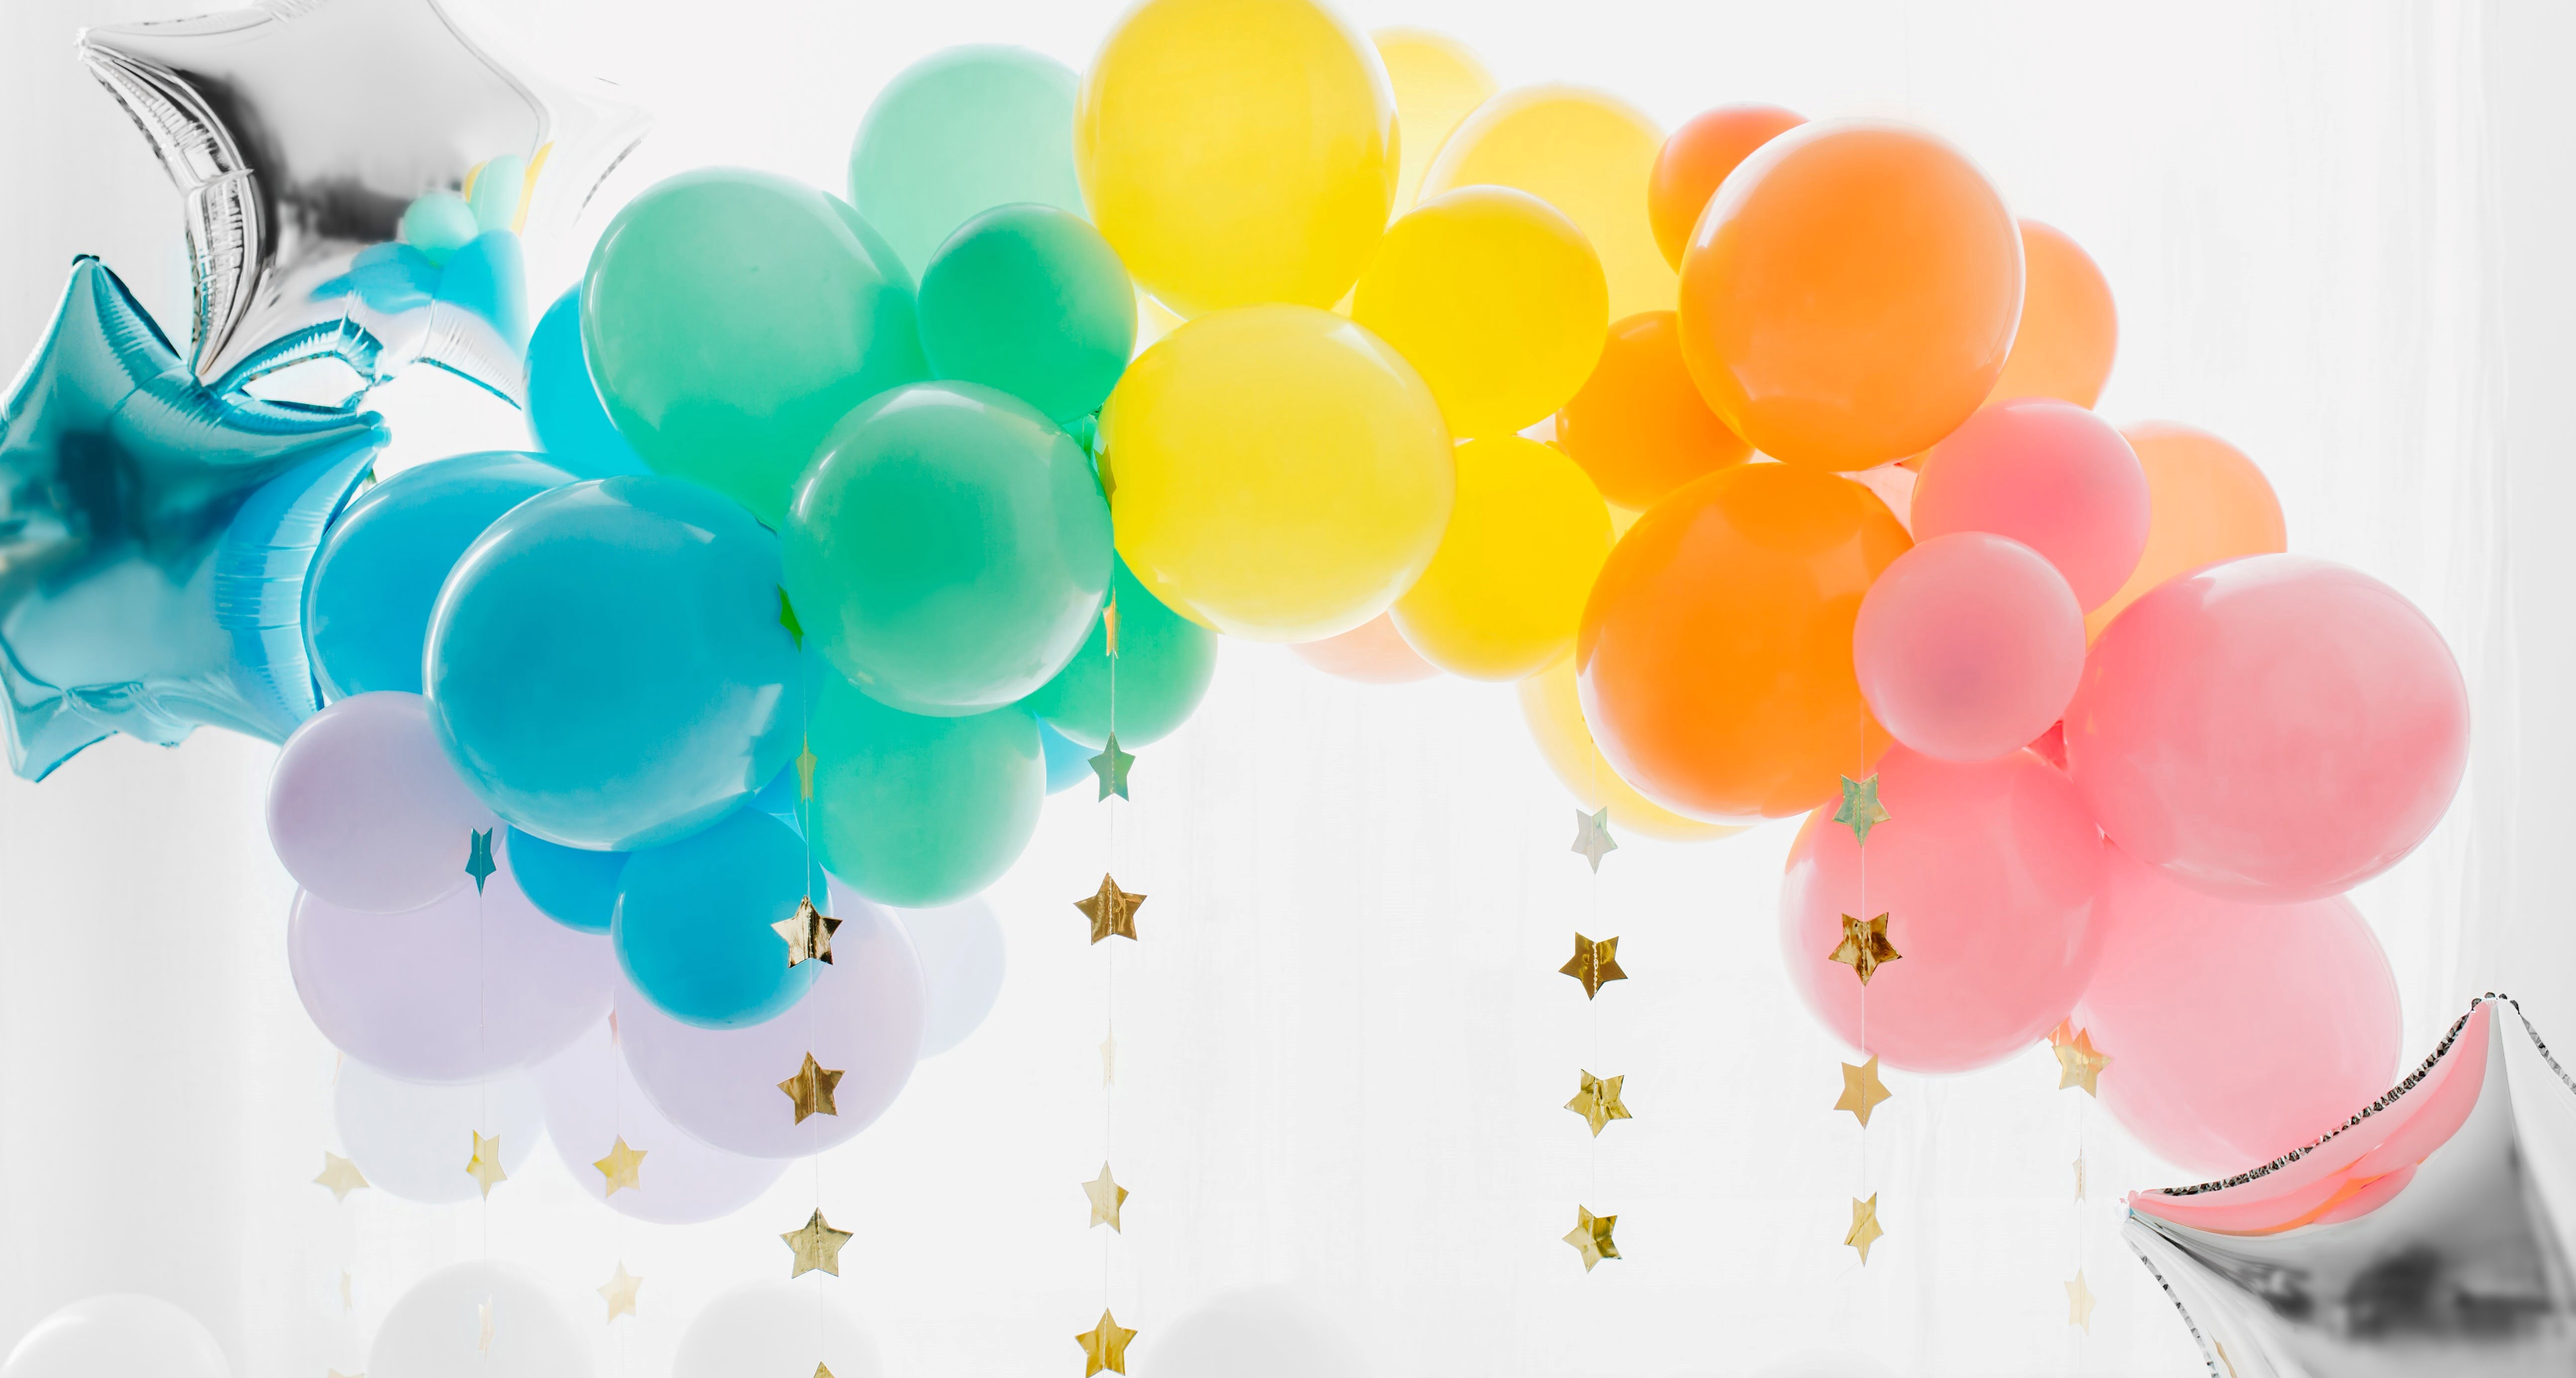
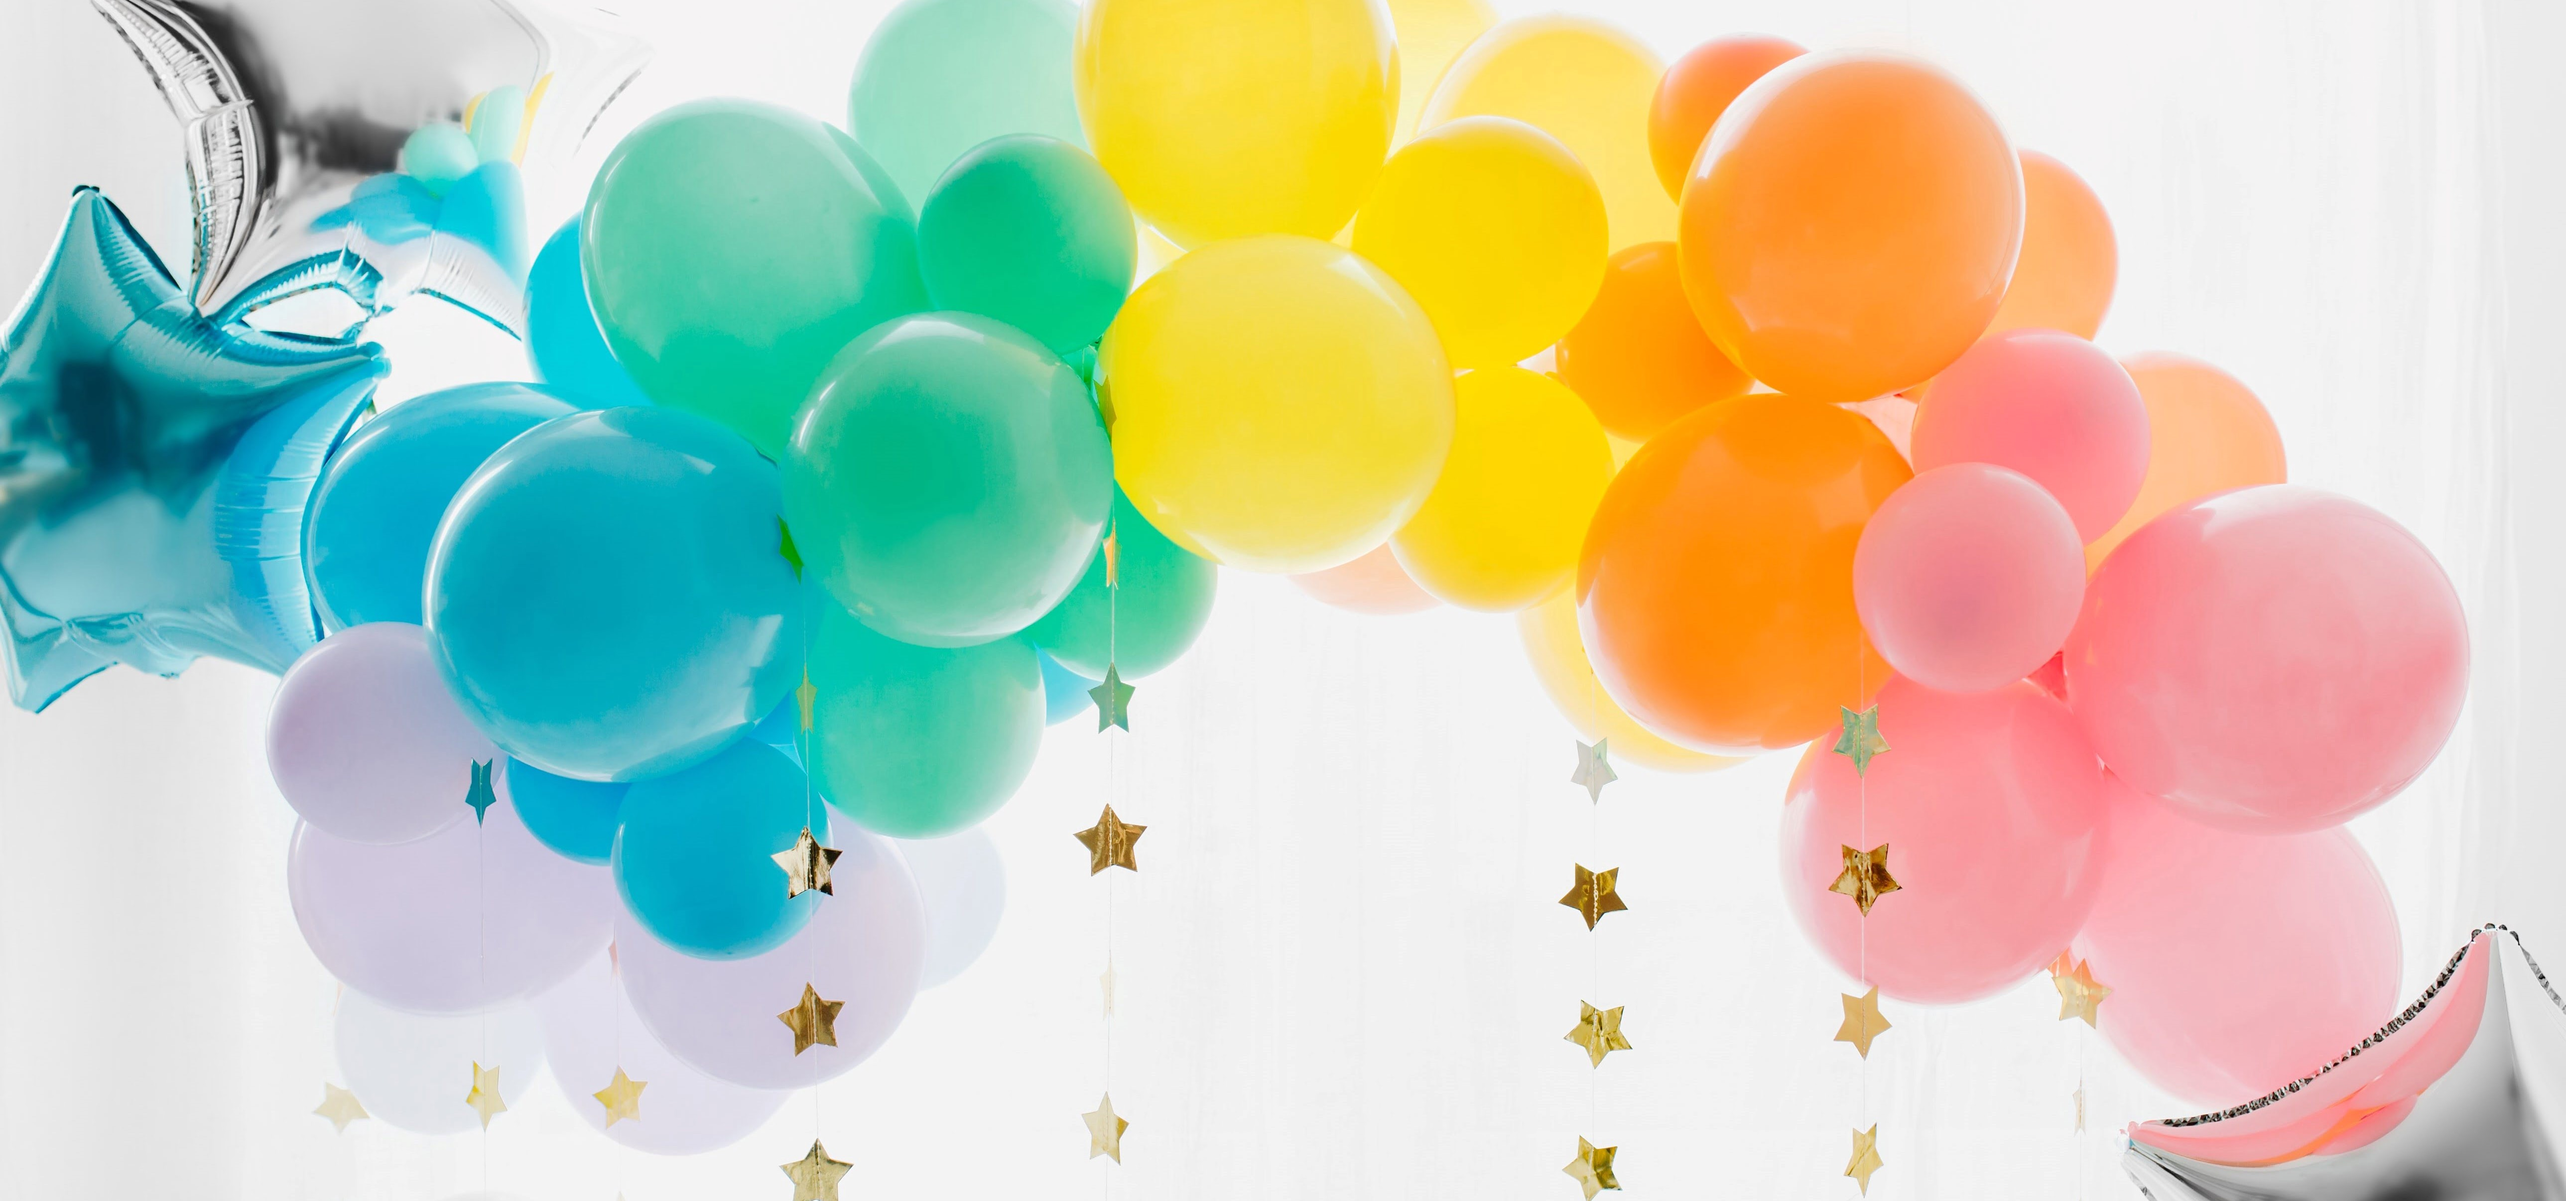
Reduce hero image height

diff --git a/index.html b/index.html
@@ -9,13 +9,13 @@
     <meta name="keywords" content="balloons, arranges, bouquet, party, birthday,special">
 
     <link rel="stylesheet" href="assets/css/style.css">
-    <title>Awesome Balloons!</title>
+    <title>Awesome Balloons</title>
 </head>
 
 <body>
     <header>
         <a href="index.html">
-            <h1 id="logo">Awesome Balloons!</h1>
+            <h1 id="logo">Awesome Balloons</h1>
         </a>
         <nav>
             <ul id="menu">
@@ -31,10 +31,8 @@
             </ul>
         </nav>
     </header>
-    <section id="hero_outer">
-        <div id="hero_image">
-
-        </div>
+    <section>
+        <div id="hero_image"></div>
     </section>
     <section id="about_us">
         <div id="about_left">about txt</div>

diff --git a/assets/css/style.css b/assets/css/style.css
@@ -23,7 +23,8 @@ h1, h2 {
 
 #logo {
     float: left;
-    font-size: 300%;
+    font-size: 200%;
+    text-transform: uppercase;
     font-family: 'Acme', sans-serif;
     margin-left: 30px;
 }
@@ -65,7 +66,7 @@ h1, h2 {
     
     width: 100%;
     
-    padding-top: 52%;
+    padding-top: 46%;
     background: url('../images/hero_image.jpg');
     background-size: 100% auto;
     background-repeat: no-repeat;
